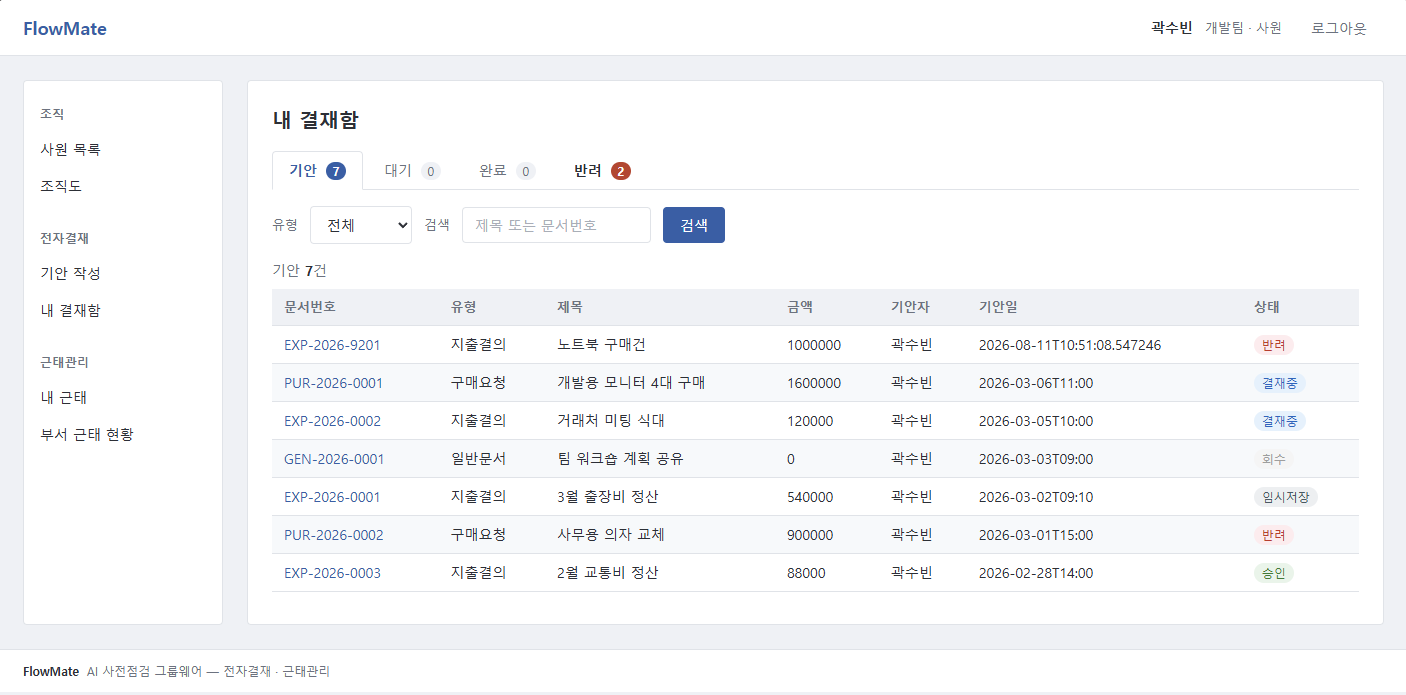
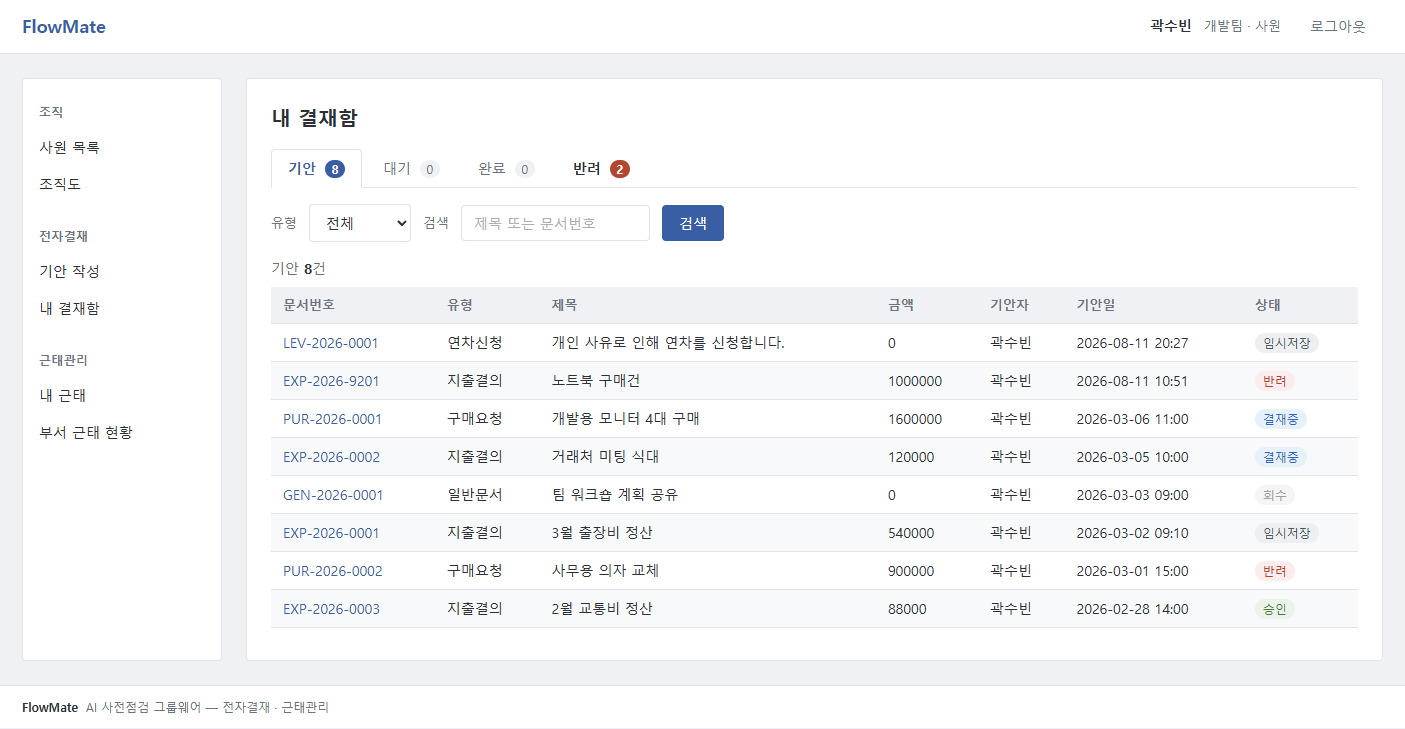
docs: "납품 환경이 Oracle" 이라는 전제를 걷어낸다
README 를 개인 동기(회사 그룹웨어를 쓰다 떠올린 아이디어) 기준으로 다시 쓰면서,
"목표 납품 환경"·"고객사별 납품" 같은 전제가 남아 톤이 어긋났다. 실제로 납품처가
있는 프로젝트가 아니므로 사실도 아니다.

걷어낸 곳은 셋뿐이었다.

  oracle-mapping.md      "목표 환경(그룹웨어 커스터마이징)은 Oracle 이 표준이다"
                         -> "회사마다 쓰는 DB 가 다르고 Oracle 인 곳도 많으므로"
  ApprovalPolicyConfig   "고객사별 납품에서 코드를 고치지 않고"
  application.yml        -> "회사마다 결재 규칙이 다르므로 코드를 고치지 않고"

★ Oracle 기술 내용은 남긴다. 나머지 언급은 전부 "이 SQL 은 PostgreSQL 전용이니
  Oracle 이면 이렇게 바꾼다"는 사실이지 납품처 주장이 아니다. 특히 설계 판단 2번
  (PostgreSQL 은 제약 위반이 트랜잭션 전체를 abort 시키는데 Oracle 은 문장 단위
  롤백이라 같은 코드가 한쪽에서만 동작한다)은 이 저장소에서 가장 값 있는 기술
  내용 중 하나다. 납품처와 무관하게 성립한다.

★ 정정. 앞선 커밋(주석 인용 정리)에서 "깨진 참조 docs/oracle-migration.md 를
  고쳤다"고 적었는데 실제로는 고쳐지지 않은 채로 남아 있었다. 지금 고쳤다
  (실제 파일명은 docs/oracle-mapping.md).

docs/superpowers/ 의 계획서 4곳에도 같은 표현이 있지만 그대로 둔다 - 그 문서들은
"그때 그렇게 계획했다"는 개발 과정 기록이라, 지금 생각이 바뀌었다고 소급해서
고치면 기록이 아니게 된다.

검증: 단위 180 / 통합 136 통과. '납품' 0건(계획서 제외), 로컬 링크 전수 정상.

diff --git a/src/main/java/com/flowmate/config/ApprovalPolicyConfig.java b/src/main/java/com/flowmate/config/ApprovalPolicyConfig.java
@@ -15,7 +15,7 @@ import com.flowmate.approval.policy.SimpleTwoStepLinePolicy;
  *   default      → DefaultApprovalLinePolicy (부서 트리 상향 + 금액별 임원)
  *   simple-two-step → SimpleTwoStepLinePolicy (소속 부서장 1명)
  *
- * 설정이 없으면 default 를 쓴다. 고객사별 납품에서 코드를 고치지 않고
+ * 설정이 없으면 default 를 쓴다. 회사마다 결재 규칙이 다르므로 코드를 고치지 않고
  * 설정 파일만 바꿔 결재 규칙을 교체하는 것이 이 구조의 목적이다.
  */
 @Configuration

diff --git a/README.md b/README.md
@@ -12,29 +12,36 @@
 
 ---
 
-## 무엇을 증명하려는 프로젝트인가
+## 무엇을 하려는 프로젝트인가
 
-실제 서비스가 아니라 **그룹웨어 커스터마이징 능력을 보여주기 위한 포트폴리오**입니다.
-"전자결재·근태관리"라는 흔한 도메인 위에 네 가지를 코드로 증명하는 데 집중했습니다.
+회사에서 매일 쓰는 그룹웨어에서 반복되는 장면이 있었습니다. 결재를 올리고 며칠을
+기다렸는데 반려되고, 사유를 열어 보면 아주 사소한 것들이었습니다.
 
-| | 증명 방법 |
-|---|---|
-| **커스터마이징** | 인터페이스 5개 × 구현체 2개씩. 같은 입력에 **설정값 하나만** 바꿔 다른 결과가 나오는 것을 통합 테스트로 고정 |
-| **DB 이식성** | PostgreSQL 로 개발하되 Oracle 에서 무엇이 달라지는지 그 자리에서 기록 ([`oracle-mapping.md`](docs/oracle-mapping.md)) |
-| **트랜잭션 정합성** | 연차 승인이 잔여 차감·근태 반영과 한 트랜잭션. **일부러 실패를 주입해** 전체 롤백을 실측 |
-| **AI를 다루는 태도** | 마스킹·캐싱·폴백을 갖춘 게이트웨이. AI가 죽어도 상신은 막히지 않고, 품질은 고정 평가셋으로 확인 |
+- **실수로 증빙 자료를 업로드하지 못했다** — 문서는 다 썼는데 영수증 스캔 파일 하나가 빠졌다
+- **출장 목적을 "업무협의"라고만 적었다** — 어디의 누구와 무슨 안건인지가 없다
+- **사전 승인이 필요한 건인 줄 몰랐다** — 절차를 건너뛰고 바로 올렸다
+
+전부 **올리기 전에 알았다면 30초면 고칠 수 있던 것들**입니다. 그리고 하나같이 같은 문서
+유형에서 이미 여러 번 나왔던 이유입니다. 반려 이력은 시스템 안에 그대로 쌓여 있는데
+아무도 그걸 읽지 않습니다. 그래서 이런 생각이 들었습니다.
+
+> **"상신 버튼을 누르기 전에, 과거에 같은 부서·같은 유형에서 무엇 때문에 반려됐는지
+> 알려주면 어떨까?"**
+
+그래서 이 프로젝트의 AI는 문서를 대신 써 주지 않습니다. `approval_reject_history` 에 쌓인
+실제 반려 유형을 집계해서 **"이 지적은 과거 3건의 실제 반려에 근거한다"** 는 숫자와 함께
+보여줍니다. 근거 없는 일반론 — *"더 자세히 쓰세요"* 같은 말 — 은 하지 않는 것이 이 기능의
+전제입니다.
 
 ## 화면
 
-| 내 결재함 — 탭 배지로 할 일이 한눈에 | 기안 작성 — 지출결의(금액 칸이 있다) |
+| 내 결재함 — 탭 배지로 할 일이 한눈에 | 기안 작성 — 지출결의 |
 |---|---|
 | ![내 결재함](docs/images/01-box.png) | ![기안 작성](docs/images/02-write-expense.png) |
 
-<!-- 남은 스크린샷: 아래 파일을 docs/images/ 에 넣고 주석을 해제하면 됩니다
-| 기안 작성 — 연차신청(금액이 사라지고 사유가 본문을 대신한다) | 상신 전 사전점검 |
+| 기안 작성 — 연차신청 | 상신 전 사전점검 |
 |---|---|
 | ![연차 기안](docs/images/03-write-leave.png) | ![사전점검](docs/images/04-preflight.png) |
--->
 
 ---
 
@@ -87,7 +94,7 @@ docker compose up -d
 
 ---
 
-## 직접 해볼 것
+## 주요 기능
 
 비밀번호는 전원 `flowmate1!` 입니다.
 
@@ -98,7 +105,7 @@ docker compose up -d
 | `2016002` | 박현주 | 사업본부 · 부장 | 2차 결재 |
 | `2015001` | 정도현 | 대표이사실 · 이사 | 임원 결재(300만원 초과) |
 
-### ① 결재와 근태가 한 트랜잭션으로 맞물린다 ★ 이 프로젝트의 중심
+### ① 결재와 근태가 한 트랜잭션으로
 
 1. **곽수빈**으로 로그인 → 기안 작성 → 유형 **연차신청** → 기간 입력 → **상신**
    (AI가 켜져 있으면 과거 반려 이력에 근거한 사전점검 모달이 뜹니다)
@@ -106,7 +113,7 @@ docker compose up -d
 3. **박현주** → 대기 탭 → 최종 승인
 4. 곽수빈으로 돌아가 **잔여 연차가 줄고**, 내 근태에 해당 기간이 **'연차'로 자동 반영된 것**을 확인
 
-### ② 설정값 하나로 결재 규칙이 바뀐다
+### ② 설정값 하나로 결재 규칙 변경
 
 1. 곽수빈으로 지출결의 **100만원** → 결재선 `신동혁 → 박현주`
 2. **500만원**으로 바꾸면 → `정도현(이사)` 추가 (300만원 초과 규칙)
@@ -158,8 +165,9 @@ LlmClient 데코레이터 체인
 
 ## 커스터마이징 지점
 
-공고의 "커스터마이징" 요구에 대한 답입니다. **다섯 지점 모두 구현체 2개를 만들어 설정값
-하나로 교체되는 것을 테스트로 증명합니다** (같은 입력, 다른 설정 → 다른 결과).
+그룹웨어는 회사마다 결재 규칙도 근무 시간도 다릅니다. 그런 것들을 코드가 아니라 설정으로
+바꿀 수 있게 미리 갈라 뒀습니다. **다섯 지점 모두 구현체를 2개씩 만들어 설정값 하나로
+교체되는 것을 테스트로 고정합니다** (같은 입력, 다른 설정 → 다른 결과).
 
 | # | 인터페이스 | 구현체 | 설정 키 |
 |---|---|---|---|

diff --git a/docs/oracle-mapping.md b/docs/oracle-mapping.md
@@ -1,7 +1,9 @@
 # PostgreSQL → Oracle 문법 대응표
 
-FlowMate 는 PostgreSQL 16 으로 개발하지만, 목표 환경(그룹웨어 커스터마이징)은 Oracle 이 표준이다.
-**이 문서는 사후에 작성하지 않는다.** PostgreSQL 전용 문법을 쓸 때마다 그 자리에서 한 줄 추가한다.
+FlowMate 는 PostgreSQL 16 으로 개발한다. 그룹웨어는 회사마다 쓰는 DB 가 다르고 Oracle 인 곳도
+많으므로, **PostgreSQL 전용 문법을 쓸 때마다 그 자리에서 Oracle 대응을 한 줄 적어 둔다.**
+사후에 몰아 쓴 문서가 아니라는 것이 이 문서의 전부다 - 나중에 옮길 일이 생겼을 때
+어디를 봐야 하는지가 이미 적혀 있다.
 
 ## 1. 공통 대응
 
